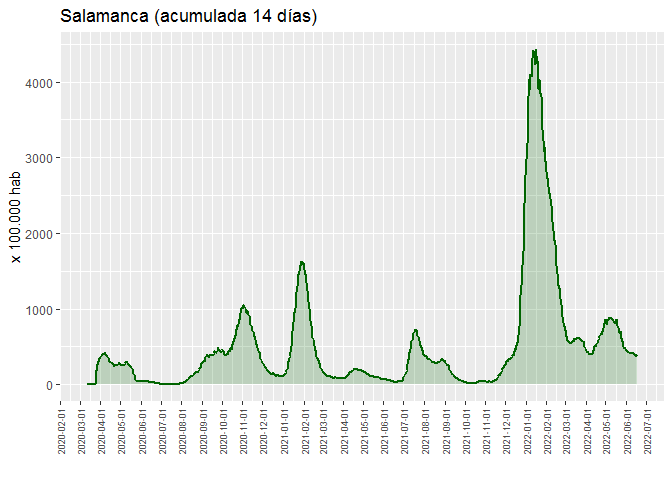
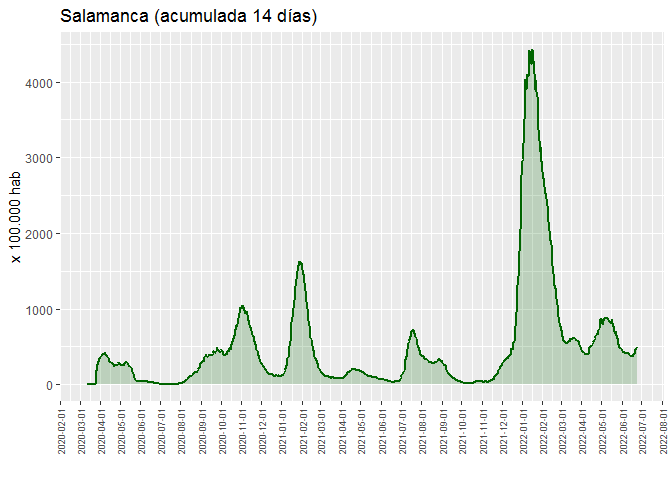
update

diff --git a/README.md b/README.md
@@ -1,7 +1,7 @@
 Covid-19: Incidencia acumulada
 ================
 JMSS \[Usal - CIC\]
-(updated: 21 jun 2022)
+(updated: 25 jun 2022)
 
 ### Incidencia acumulada del Covid19 por cada 100.000 habitantes
 
